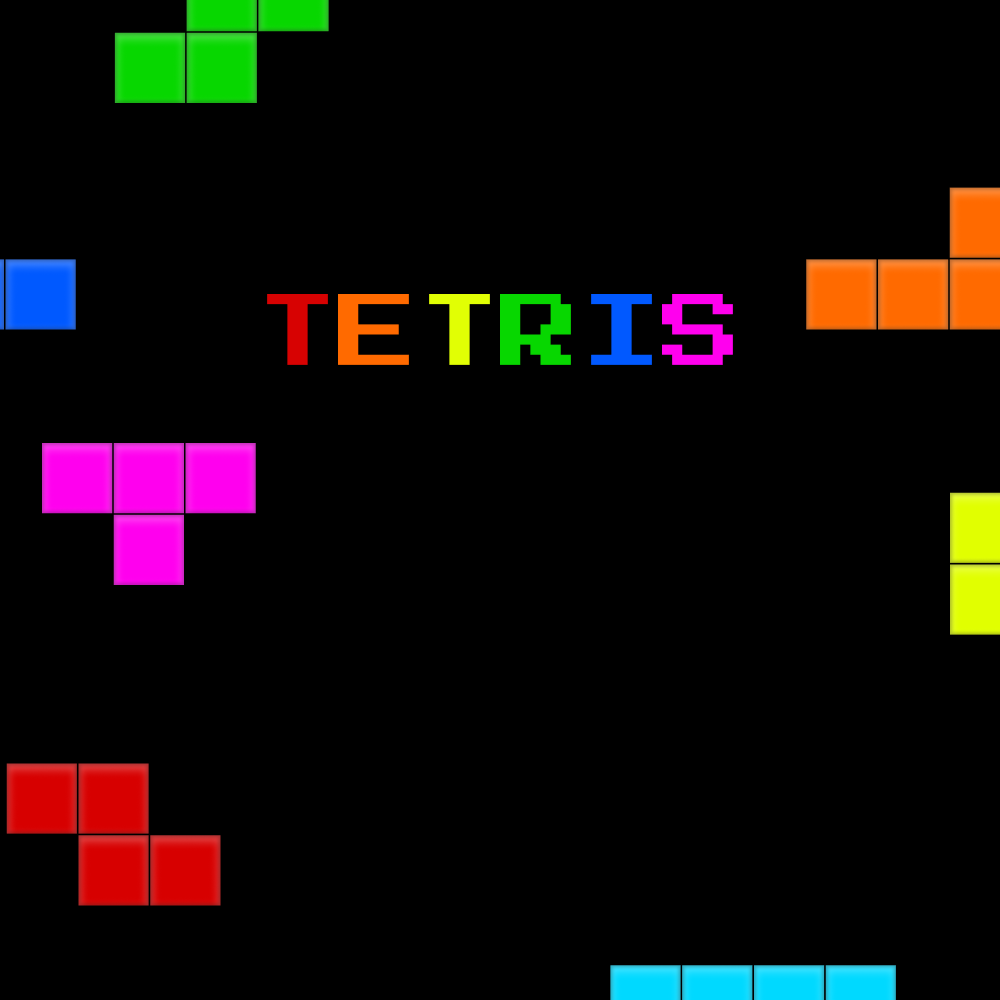
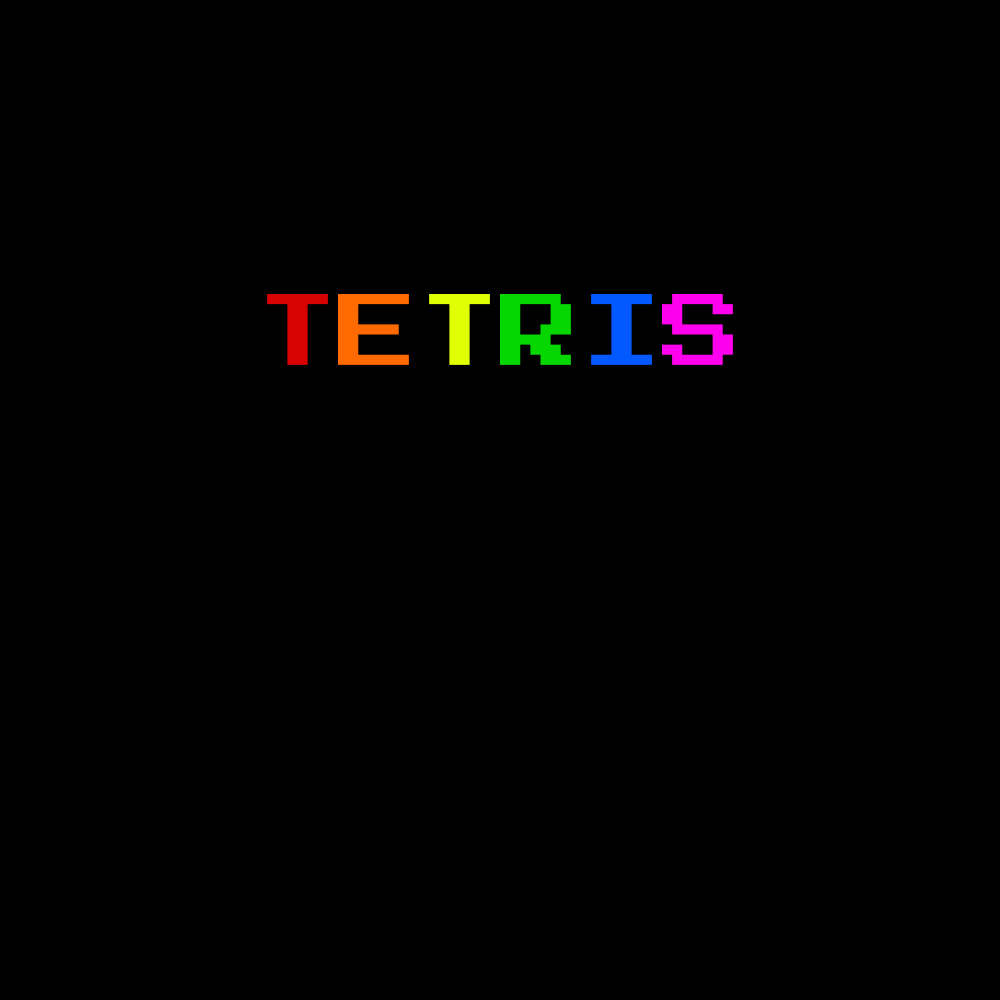
Animated main menu

diff --git a/StaticBackgroundFrame.java b/StaticBackgroundFrame.java
@@ -7,6 +7,11 @@ import java.io.IOException;
 import javax.imageio.ImageIO;
 import javax.swing.JFrame;
 import javax.swing.JPanel;
+import java.awt.event.ActionEvent;
+import java.awt.event.ActionListener;
+import javax.swing.Timer;
+import java.util.ArrayList;
+import java.util.List;
 
 public class StaticBackgroundFrame {
 
@@ -47,12 +52,19 @@ class ImagePanel extends JPanel implements KeyListener {
     private int currentOverlayIndex = 0;
     private final int overlayYPosition = 275;
 
+    private final List<Image> bobbingImages = new ArrayList<>();
+    private final int[] bobbingOffsets = new int[7];
+    private final int[] bobbingSpeeds = new int[7];
+    private final int bobbingAmplitude = 20;
+    private int timerTick = 0;
+
     public ImagePanel(String backgroundPath, String[] overlayPaths) {
         super();
         setLayout(null);
 
         loadBackgroundImage(backgroundPath);
         loadOverlayImages(overlayPaths);
+        loadBobbingImages();
 
         this.addKeyListener(this);
         this.setFocusable(true);
@@ -67,6 +79,8 @@ class ImagePanel extends JPanel implements KeyListener {
                  currentOverlayIndex = -1;
              }
         }
+
+        startBobbingAnimation();
     }
 
     private void loadBackgroundImage(String path) {
@@ -112,6 +126,39 @@ class ImagePanel extends JPanel implements KeyListener {
         }
     }
 
+    private void loadBobbingImages() {
+        for (int i = 1; i <= 7; i++) {
+            try {
+                File imageFile = new File("./res/pieces/glow/" + i + ".png");
+                if (imageFile.exists()) {
+                    bobbingImages.add(ImageIO.read(imageFile));
+                    bobbingOffsets[i - 1] = 0;
+                    bobbingSpeeds[i - 1] = (int) (Math.random() * 50 + 50); // Random speed for each image
+                } else {
+                    System.err.println("Error: Bobbing image not found: " + imageFile.getAbsolutePath());
+                    bobbingImages.add(null);
+                }
+            } catch (IOException e) {
+                System.err.println("Error loading bobbing image: " + e.getMessage());
+                bobbingImages.add(null);
+            }
+        }
+    }
+
+    private void startBobbingAnimation() {
+        Timer timer = new Timer(16, new ActionListener() { // ~60 FPS
+            @Override
+            public void actionPerformed(ActionEvent e) {
+                timerTick++;
+                for (int i = 0; i < bobbingOffsets.length; i++) {
+                    bobbingOffsets[i] = (int) (Math.sin((timerTick + i * 20) / (double) bobbingSpeeds[i]) * bobbingAmplitude);
+                }
+                repaint();
+            }
+        });
+        timer.start();
+    }
+
     @Override
     protected void paintComponent(Graphics g) {
         super.paintComponent(g);
@@ -137,6 +184,25 @@ class ImagePanel extends JPanel implements KeyListener {
         } else if (currentOverlayIndex != -1) {
              g.setColor(java.awt.Color.YELLOW);
              g.drawString("Selected overlay image failed to load.", 20, 50);
+        }
+
+        // Draw bobbing images
+        int panelWidth = this.getWidth();
+        int spacing = panelWidth / (bobbingImages.size() + 1);
+        int[] bobx = {-100, -60,430,-250,300, 550,-140};
+        int[] boby = {125, -160,0,0,500, 300,460};
+
+        for (int i = 0; i < bobbingImages.size(); i++) {
+            Image img = bobbingImages.get(i);
+            if (img != null) {
+                int imgWidth = img.getWidth(this);
+                int imgHeight = img.getHeight(this);
+                // int x = spacing * (i + 1) - imgWidth / 2;
+                // int y = 500 + bobbingOffsets[i]; // Base Y position + bobbing offset
+                int x = bobx[i];
+                int y = boby[i] + bobbingOffsets[i]; // Base Y position + bobbing offset
+                g.drawImage(img, x, y, this);
+            }
         }
     }
 
